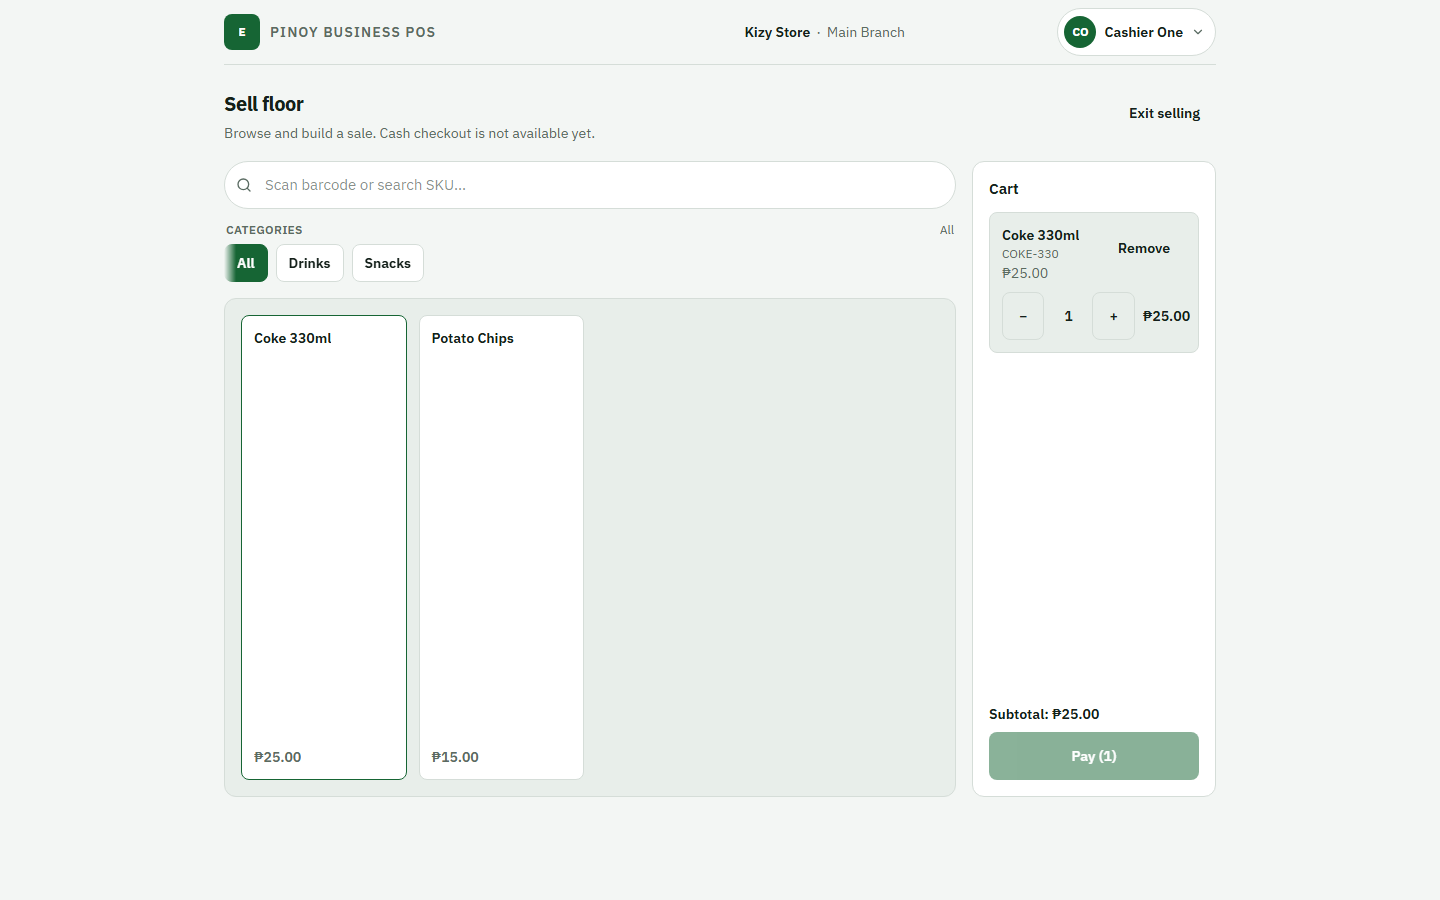
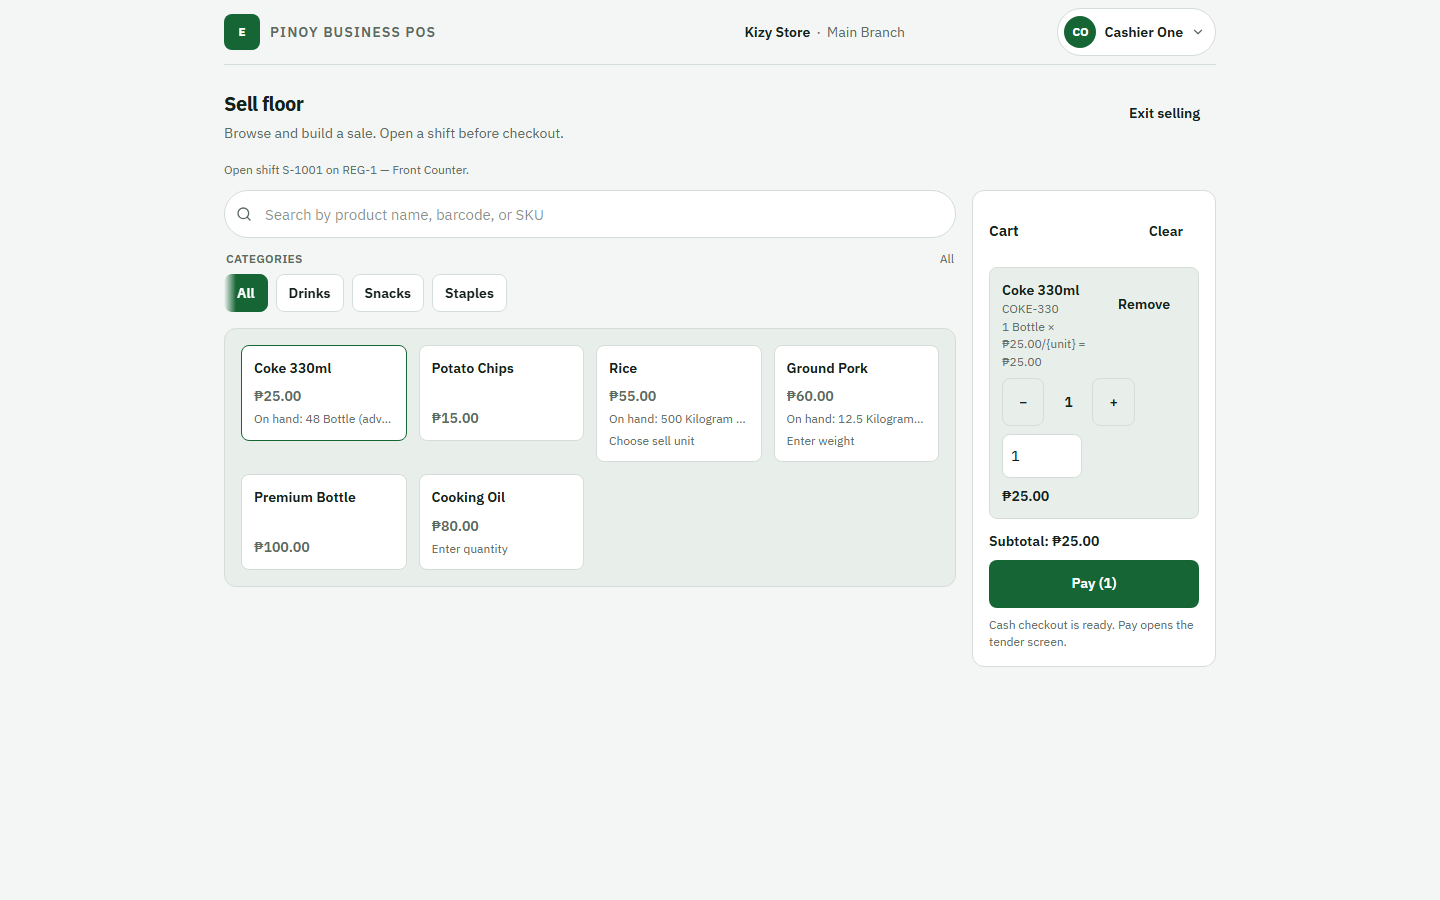
docs(pos-react): close operations UX readiness repair
Record Device to Shift to Sell gate evidence and refresh responsive sell-floor screenshots.

diff --git a/docs/Mobile-React/Authoritative/Migration/react-migration-roadmap.md b/docs/Mobile-React/Authoritative/Migration/react-migration-roadmap.md
@@ -416,9 +416,9 @@ Visual packages below depend on **RMAP-00** unless noted non-UI.
 | Objective                        | Replace thin React Personal shell with real Personal journeys (Utang-first Home, Utang core, invitations/reminders, To-do domain+UI, stores/ordering, Start Business, integrated Personal↔Business E2E)                                                              |
 | Dependencies                     | RMAP-01, RMAP-00; RMAP-19 for ordering reuse                                                                                                                                                                                                                            |
 | Execution order (PO decision)    | **Pulled forward before RMAP-21 Offline** so the SaaS ecosystem can be validated end-to-end while Personal was only a thin shell. Historic IDs are **not** renumbered. See [Personal implementation roadmap](../Personal/personal-implementation-roadmap.md). |
-| Status                           | **IN PROGRESS** — Personal Master Run 01 (RMAP-22A…H). `RMAP_21_AUTHORIZED=NO` remains.                                                                                                                                                                                 |
+| Status                           | **COMPLETE** — Personal Master Run 01 (RMAP-22A…H) closed at `5e65fa22`. Awaiting PO/ChatGPT review. `RMAP_21_AUTHORIZED=NO` remains. Follow-on: [POS OPERATIONS UX REPAIR 01](../../Reports/POS-REACT-OPERATIONS-UX-REPAIR-01-device-shift-sell-readiness.md) (Device → Shift → Sell). |
 | Exclusions                       | RMAP-21 offline; RMAP-B04 buyer purchase projection; RMAP-B05; RMAP-TAX; production cutover; Loan SaaS                                                                                                                                                                   |
-| Next                             | After Master Run 01 PO review → RMAP-21 when authorized (not automatic)                                                                                                                                                                                                 |
+| Next                             | After PO review of Personal + Ops UX → RMAP-21 when authorized (not automatic)                                                                                                                                                                                                 |
 
 ### RMAP-21 — Offline / LocalStore / outbox (cash + customers)
 
@@ -491,7 +491,7 @@ Scaffold, PWA shell, browser session/workspace, sell-floor shell, session cart, 
 **Status:** RMAP-00…RMAP-20 PASS for delivered packages. Master Run 02 Review Repair 01/02 closed expiry-return, refund fidelity, and return/void concurrency. RMAP-14 React returns/refunds **COMPLETE**. RMAP-15 React manual suppliers **COMPLETE** (`RMAP_15_NATIVE_SPEAKER=PENDING`). RMAP-16 React connected suppliers **COMPLETE** (`RMAP_16_NATIVE_SPEAKER=PENDING`). RMAP-17 React purchasing + GRN + direct purchase **COMPLETE** (`RMAP_17_NATIVE_SPEAKER=PENDING`). RMAP-18 React branch fulfillment admin **COMPLETE** (`RMAP_18_NATIVE_SPEAKER=PENDING`; `RMAP_B05_AUTHORIZED=NO` not started). RMAP-19 React customer ordering / storefront / pickup / delivery **COMPLETE** (`RMAP_19_NATIVE_SPEAKER=PENDING`; `RMAP_B05 accidentally implemented=NO`). RMAP-20 React reports + management dashboard **COMPLETE** (`RMAP_20_NATIVE_SPEAKER=PENDING`; Tax UI exposed **NO**; Fake P&L **NO**; Buyer purchase projection **NO**). RMAP-B01 backend + RMAP-12b React price override **COMPLETE**. **Product Owner decision:** execute **RMAP-22 Personal Master Run 01 before RMAP-21 Offline** (order change only; RMAP-21 not cancelled). `RMAP_21_AUTHORIZED=NO` until separately authorized after Personal online validation.
 **Stop rule:** After Master Run packages + authorized B03 closeout → HARD STOP for Product Owner + ChatGPT review (historical). RMAP-08/09 completed after that stop when authorized. After RMAP-14 → HARD STOP pending RMAP-15 authorization (historical). After RMAP-15 → HARD STOP pending RMAP-16 authorization (historical). After RMAP-16 → HARD STOP pending RMAP-17 authorization (historical). After RMAP-17 → HARD STOP pending RMAP-18 authorization (historical). After RMAP-18 → HARD STOP pending RMAP-19 authorization (historical). After RMAP-19 → HARD STOP pending RMAP-20 authorization (historical). After RMAP-20 / 12b → Product Owner authorized **RMAP-22 Personal** ahead of RMAP-21.
 **Do not include (still gated):** RMAP-21 Offline (`RMAP_21_AUTHORIZED=NO`); RMAP-B04; RMAP-B05 (`RMAP_B05_AUTHORIZED=NO`); RMAP-TAX implementation; production cutover
-**Active authorized track:** RMAP-22A…H Personal Master Run 01 — [report 22A](../../Reports/POS-REACT-RMAP-22A-personal-current-state-reconciliation.md); [Personal roadmap](../Personal/personal-implementation-roadmap.md)
+**Active authorized track:** RMAP-22 Personal Master Run 01 **COMPLETE** (awaiting PO review) — [master report](../../Reports/POS-REACT-RMAP-22-PERSONAL-MASTER-RUN-01.md). Follow-on UX repair: [POS OPERATIONS UX REPAIR 01](../../Reports/POS-REACT-OPERATIONS-UX-REPAIR-01-device-shift-sell-readiness.md) (Device → Shift → Sell; `RMAP_21_AUTHORIZED=NO`).
 **Completed beyond Master Run 01 table:** RMAP-08 lots/expiry inventory surfaces; RMAP-09 sell floor + session cart; RMAP-10 registers + open shift gate; RMAP-10b browser POS device authorization; RMAP-11 online cash checkout; RMAP-11b commercial discount UX; RMAP-12 current payments (Cash/GCash/Utang) + void; RMAP-13 customers + Business Utang; RMAP-14 returns / refunds; RMAP-15 manual suppliers; RMAP-16 connected suppliers; RMAP-17 purchasing + goods receipt + direct purchase; RMAP-18 branch fulfillment admin + readiness; RMAP-19 customer ordering / storefront / pickup / delivery (linked merchants — no B05 public landing); RMAP-20 reports + management dashboard (no tax UI; no fake P&L; no B04 buyer purchase projection)
 **Distinction preserved:** Today's Price ≠ Cashier Price Override ≠ Commercial Discount ≠ Promotion ≠ Regulatory Discount
 **Completion report (B00):** [POS-REACT-RMAP-B00-identity-reconciliation.md](../../Reports/POS-REACT-RMAP-B00-identity-reconciliation.md)

diff --git a/docs/Mobile-React/Reports/POS-REACT-OPERATIONS-UX-REPAIR-01-device-shift-sell-readiness.md b/docs/Mobile-React/Reports/POS-REACT-OPERATIONS-UX-REPAIR-01-device-shift-sell-readiness.md
@@ -1,0 +1,97 @@
+# POS-REACT OPERATIONS UX REPAIR 01 — Device → Shift → Sell readiness
+
+**Status:** `POS_OPERATIONS_UX_REPAIR_01=AWAITING_PRODUCT_OWNER_CHATGPT_REVIEW`  
+**Start SHA:** `5e65fa22c22f21537bf52e164ecf14f8dd995d22` (RMAP-22 Personal Master Run 01 final tip)  
+**Implementation commit:** `a2fd04a51e078959ed114c938424f448c89692e4`  
+**Branch:** `feat/pos-react-client`
+
+## Locked operational flow
+
+```
+DEVICE → SHIFT → SELL
+```
+
+| Rule | Result |
+|------|--------|
+| `NO_DEVICE_NO_SELL` | PASS |
+| `NO_SHIFT_NO_SELL` | PASS |
+| `CASHIER_DEVICE_ADMIN_EXPOSURE` | NO |
+| `OWNER_DEVICE_CAPACITY_VISIBLE` | PASS |
+| `MOBILE_FLOATING_CART` | PASS |
+| `DESKTOP_STICKY_CART` | PASS |
+| `FEW_PRODUCT_STRETCH` | FIXED |
+| `NORMAL_CART_READINESS_CLUTTER` | REMOVED |
+
+Client route/readiness UI is **not** security authority. Server continues to deny unauthorized money-posting.
+
+## Delivered
+
+### Pre-Sell readiness gate
+
+- `SellReadinessGate` on `/sell` index: device required → shift required → `SellFloorPage`
+- Direct `/sell` navigation obeys the same gate
+- States: Device setup required / Open shift required / Ready (floor)
+- Cashier: Register this browser only; Owner/Admin may also open POS devices
+- After redeem / open shift with `?from=sell`, continue into the next readiness step
+
+### Mid-session readiness loss
+
+- Cart preserved
+- Compact `sell-mid-session-warning`
+- Pay disabled; no money POST while blocked
+
+### Cashier device registration
+
+- Bound branch shown as locked label (no dropdown)
+- No inventory / revoke / create-code on cashier redeem surface
+
+### Owner/Admin POS devices
+
+- Capacity from `getPosDeviceCapacity` (server-authoritative)
+- Finite: used / allowed + available + progress bar
+- Unlimited sentinel (`allowed >= 10000`): “active / Unlimited devices”
+- Raw installation UUID de-emphasized (copy under details)
+
+### Organization essentials
+
+- Shared `ActionCard` tiles with lucide icons + chevrons
+- Groups: Operations / Administration / Workspace
+- Responsive 2-column → 3-column grid
+
+### Sell floor layout
+
+- Mobile floating View cart CTA when cart non-empty; hidden when empty or sheet open
+- Desktop/tablet sticky landscape cart panel
+- Permanent Checkout readiness block removed from cart
+- Product grid: `content-start` / `self-start`; few-result cards no longer stretch to viewport height
+
+### i18n
+
+- New keys in en, fil-PH, ceb-PH, ilo-PH, hil-PH
+- Native-speaker certification: **PENDING**
+
+## Explicit exclusions
+
+- RMAP-21 Offline, RMAP-B04/B05, RMAP-TAX, RMAP-23/24
+- New payment providers / subscription model
+- New PosDevice or shift accounting backend architecture
+- No backend contract expansion (`POS_OPERATIONS_UX_BACKEND_CONTRACT_GAP` not raised)
+
+## Evidence (gates)
+
+- `format:check` PASS
+- `typecheck` PASS
+- `lint` PASS (existing warnings only)
+- Vitest: 352 passed
+- `build` PASS
+- Playwright ops UX + sell/shift/device/cart suites PASS
+- Critical: RMAP-02, RMAP-03, RMAP-10, RMAP-10b, RMAP-11 subset PASS
+- Backend: no code changes; existing PosDevice/shift contracts reused
+
+## Out of scope flags
+
+- `RMAP_21_AUTHORIZED=NO`
+- `RMAP_B04_AUTHORIZED=NO`
+- `RMAP_B05_AUTHORIZED=NO`
+- `RMAP_TAX_AUTHORIZED=NO`
+- `PRODUCTION_CUTOVER=NO`
